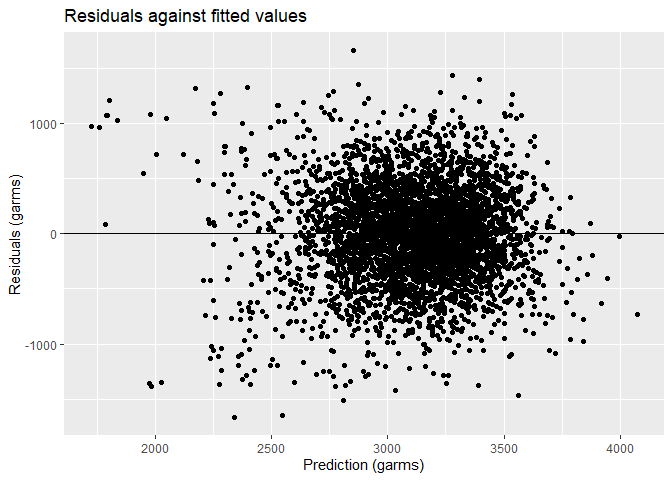
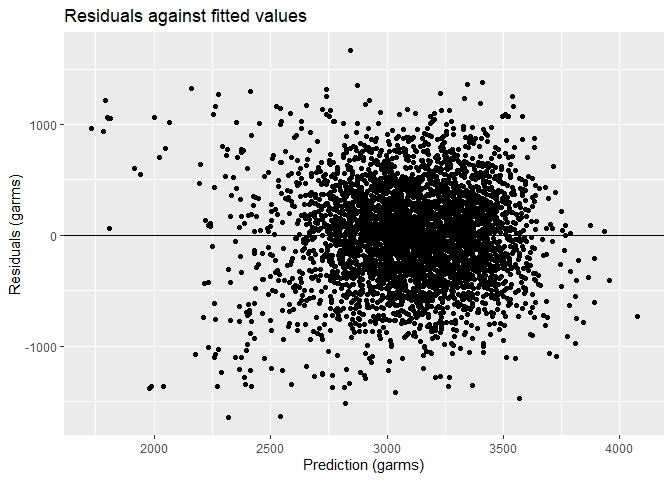
make this comparison in terms of the cross-validated prediction error make a plot

diff --git a/p8105_hw6_bf2506.md b/p8105_hw6_bf2506.md
@@ -218,9 +218,7 @@ of the parent, Number of babies, Length of Pregnancy, Mother’s birth
 weight, Diet during pregnancy, Mother’s habits, Gender, and Parent’s
 medical conditions, etc. SO I decide to choose these as predictors:
 
-- genetics/Ethnicity
-  - frace: father’s race (1 = White, 2 = Black, 3 = Asian, 4 = Puerto
-    Rican, 8 = Other, 9 = Unknown)
+- Ethnicity
   - mrace: mother’s race (1 = White, 2 = Black, 3 = Asian, 4 = Puerto
     Rican, 8 = Other)
 - Age of the parent
@@ -242,15 +240,57 @@ medical conditions, etc. SO I decide to choose these as predictors:
 Then I Fit a model
 
 ``` r
-fit = lm(bwt ~ babysex + mrace + frace + parity + momage + gaweeks + parity + smoken + wtgain, data = birthweight_data)
+fit_test= lm(bwt ~ babysex + mrace + parity + momage + gaweeks + malform + smoken + wtgain, data = birthweight_data)
+
+summary(fit_test)
 ```
+
+    ## 
+    ## Call:
+    ## lm(formula = bwt ~ babysex + mrace + parity + momage + gaweeks + 
+    ##     malform + smoken + wtgain, data = birthweight_data)
+    ## 
+    ## Residuals:
+    ##      Min       1Q   Median       3Q      Max 
+    ## -1660.36  -271.46    10.25   276.51  1653.58 
+    ## 
+    ## Coefficients:
+    ##              Estimate Std. Error t value Pr(>|t|)    
+    ## (Intercept)  862.5657    92.5231   9.323  < 2e-16 ***
+    ## babysex2     -86.6600    13.1499  -6.590 4.92e-11 ***
+    ## mrace2      -275.9966    15.0783 -18.304  < 2e-16 ***
+    ## mrace3      -198.5309    67.0322  -2.962  0.00308 ** 
+    ## mrace4      -168.4294    29.6211  -5.686 1.38e-08 ***
+    ## parity        91.2400    64.0554   1.424  0.15441    
+    ## momage         4.6543     1.8353   2.536  0.01125 *  
+    ## gaweeks       55.1638     2.1524  25.629  < 2e-16 ***
+    ## malform1     -56.7879   111.8218  -0.508  0.61159    
+    ## smoken       -11.3392     0.9160 -12.380  < 2e-16 ***
+    ## wtgain         9.2538     0.6105  15.159  < 2e-16 ***
+    ## ---
+    ## Signif. codes:  0 '***' 0.001 '**' 0.01 '*' 0.05 '.' 0.1 ' ' 1
+    ## 
+    ## Residual standard error: 431.7 on 4331 degrees of freedom
+    ## Multiple R-squared:  0.2913, Adjusted R-squared:  0.2896 
+    ## F-statistic:   178 on 10 and 4331 DF,  p-value: < 2.2e-16
+
+*According to the above table, I removed the momage, malform and parity
+variables because they are not significantly related.*
+
+Fit my final model
+
+``` r
+fit = lm(bwt ~ babysex + mrace + gaweeks + smoken + wtgain, data = birthweight_data)
+```
+
+**Predictors**: babysex, mrace, gaweeks, smoken, wtgain
 
 Plot of model residuals against fitted values
 
 ``` r
 plot_df = 
   birthweight_data %>% 
-  select(bwt, babysex, mrace, frace, parity, momage, gaweeks, parity, smoken, wtgain) %>%
+  select(bwt, babysex, mrace, gaweeks, smoken, wtgain) %>%
   modelr::add_residuals(., fit) %>% 
   modelr::add_predictions(., fit)
 
@@ -272,15 +312,48 @@ Second part is comparing my model to two others:
 - using length at birth and gestational age as predictors
 - using head circumference, length, sex, and all interactions
 
-``` r
-fit_blength_gaweeks = 
-  birthweight_data %>% 
-  lm(bwt ~ blength + gaweeks, data = .)
-
-fit_bhead_blength_babysex = 
-  birthweight_data %>% 
-  lm(bwt ~ bhead + blength + babysex + bhead*blength*babysex, data = .)
-```
-
 Then make this comparison in terms of the cross-validated prediction
 error; use crossv_mc and functions in purrr as appropriate.
+
+``` r
+cv_df = 
+  crossv_mc(birthweight_data, 100) %>% 
+  mutate(
+    train = map(train, as_tibble),
+    test = map(test, as_tibble))
+
+cv_results = 
+  cv_df %>% 
+  mutate(
+    fit_mod = map(train, ~lm(bwt ~ babysex + mrace + parity + smoken + wtgain, data = .x)),
+    blength_gaweeks_mod = map(train, ~lm(bwt ~ blength + gaweeks, data = .x)),
+    bhead_blength_babysex_mod = map(train, ~lm(bwt ~ bhead + blength + babysex + bhead*blength*babysex, data = .x))) %>% 
+  mutate(
+    rmse_fit_mod = map2_dbl(fit_mod, test, ~rmse(model = .x, data = .y)),
+    rmse_blength_gaweeks_mod = map2_dbl(blength_gaweeks_mod, test, ~rmse(model = .x, data = .y)),
+    rmse_bhead_blength_babysex_mod = map2_dbl(bhead_blength_babysex_mod, test, ~rmse(model = .x, data = .y)))
+```
+
+``` r
+cv_plot = 
+  cv_results %>% 
+  select(starts_with("rmse")) %>% 
+  pivot_longer(
+    everything(),
+    names_to = "model", 
+    values_to = "rmse",
+    names_prefix = "rmse_") %>% 
+  mutate(model = fct_inorder(model)) %>% 
+  ggplot(aes(x = model, y = rmse)) + geom_violin() +
+  labs(title = "RMSE Of Each Model", x = "Model", y = "RMSE") +
+  theme(axis.text.x = element_text(angle = 15, vjust = 0.5, hjust = 0.5))+
+  theme(plot.title=element_text(hjust = 0.5))
+cv_plot
+```
+
+![](p8105_hw6_bf2506_files/figure-gfm/cv_plot-1.png)<!-- --> According
+to the plot of “RMSE Of Each Model”(cross-validation), my model has the
+biggest RMSE, so mine seems the worst. And the third model (using head
+circumference, length, sex, and all interactions) appears to be doing
+better than the second model (using length at birth and gestational age
+as predictors). It has a low RMSE.
